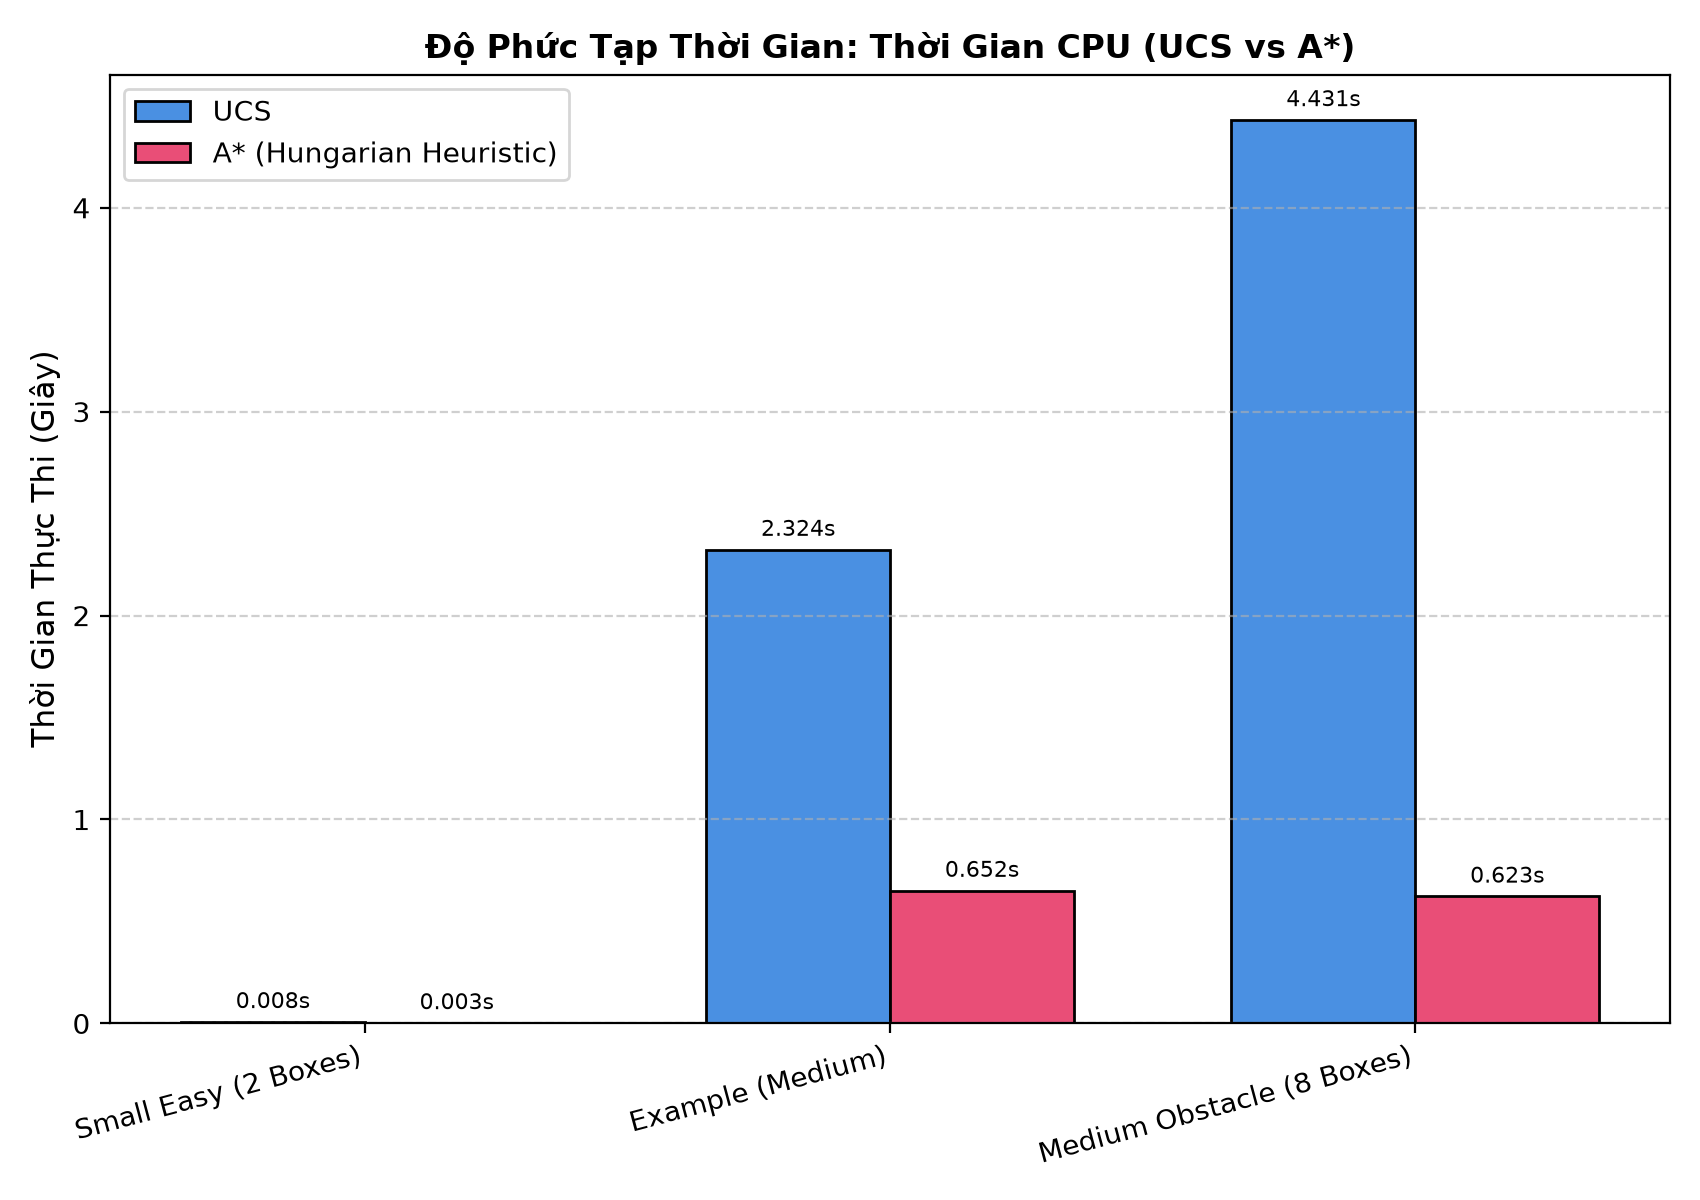
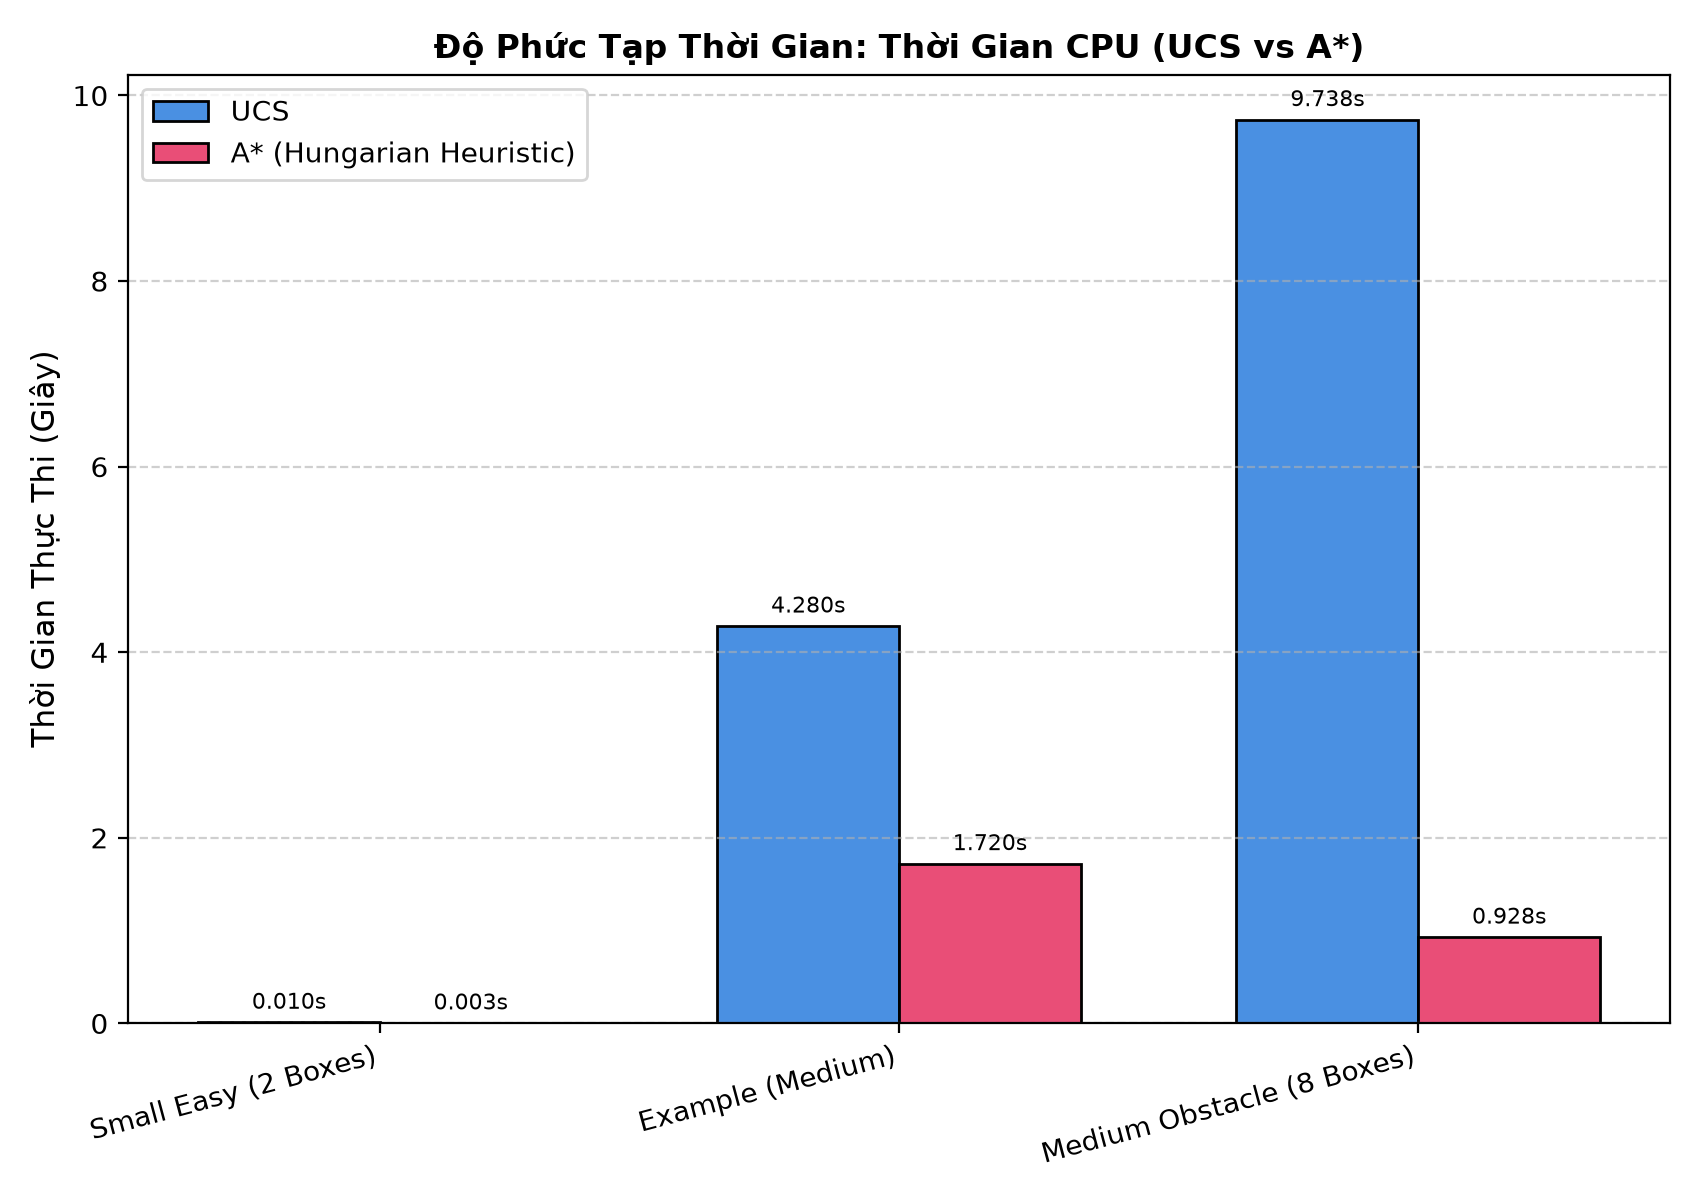
chore: remove redundant map_easy.txt and update references to map_small_easy.txt

diff --git a/task3/benchmark.py b/task3/benchmark.py
@@ -64,7 +64,7 @@ def run_single_experiment(map_path: str, algorithm: str, timeout: float = 30.0) 
 
 def run_full_benchmark():
     test_cases = [
-        {"name": "Small Easy (2 Boxes)", "file": "maps/map_easy.txt", "boxes": 2},
+        {"name": "Small Easy (2 Boxes)", "file": "maps/map_small_easy.txt", "boxes": 2},
         {"name": "Example (Medium)", "file": "maps/example_map.txt", "boxes": 7},
         {"name": "Medium Obstacle (8 Boxes)", "file": "maps/map_medium.txt", "boxes": 8},
     ]

diff --git a/task5/gui_single.py b/task5/gui_single.py
@@ -36,7 +36,7 @@ def resolve_map_path(map_name_or_path: str) -> str:
 class SinglePlayerGUI:
     """Giao dien do hoa Pygame cho tro choi Sokoban che do mot nguoi."""
 
-    def __init__(self, map_path: str = "maps/map_easy.txt", default_algo: str = "astar"):
+    def __init__(self, map_path: str = "maps/map_small_easy.txt", default_algo: str = "astar"):
         pygame.init()
         pygame.display.set_caption("Sokoban AI - Single Player (UCS & A*)")
 

diff --git a/task4/verify_heuristic.py b/task4/verify_heuristic.py
@@ -196,7 +196,7 @@ def run_heuristic_verification():
     print("TASK 4: KIỂM CHỨNG LÝ THUYẾT VÀ THỰC NGHIỆM TÍNH CHẤT HEURISTIC")
     print("=" * 80)
 
-    board = Board.from_file("maps/map_easy.txt")
+    board = Board.from_file("maps/map_small_easy.txt")
     print(f"Đã nạp bản đồ: {board.name} ({board.width}x{board.height})")
 
     samples = sample_states_from_search(board, max_samples=40)

diff --git a/task2/run_task2.py b/task2/run_task2.py
@@ -59,6 +59,6 @@ def test_map_solving(map_path: str, timeout: float = 30.0):
 
 
 if __name__ == "__main__":
-    test_map_solving("maps/map_easy.txt")
+    test_map_solving("maps/map_small_easy.txt")
 
     test_map_solving("maps/map_medium.txt")
